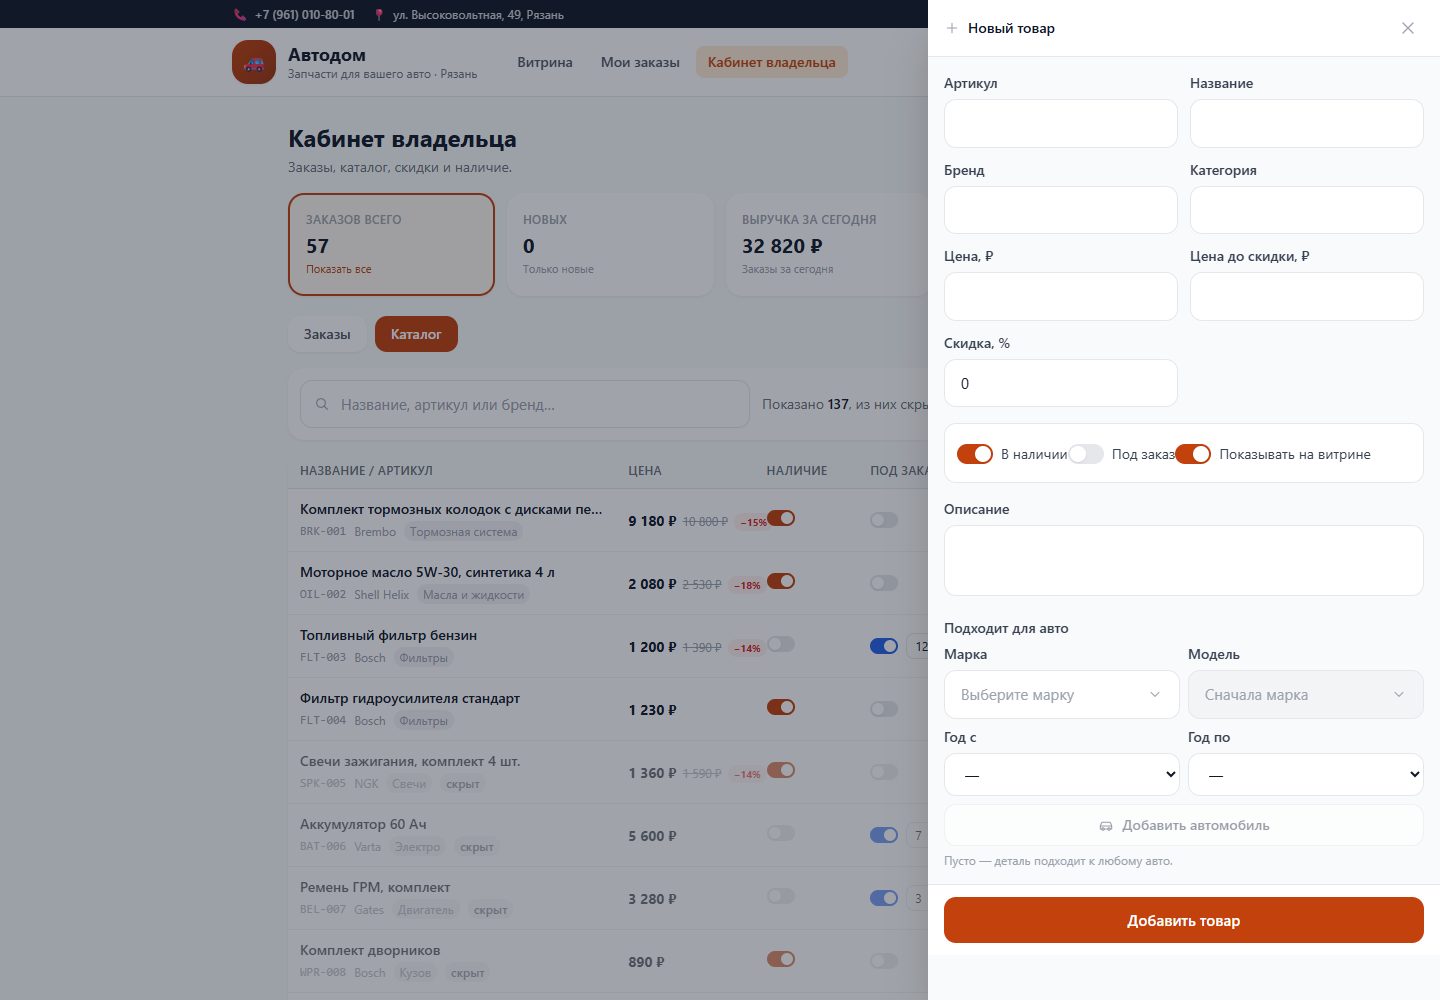
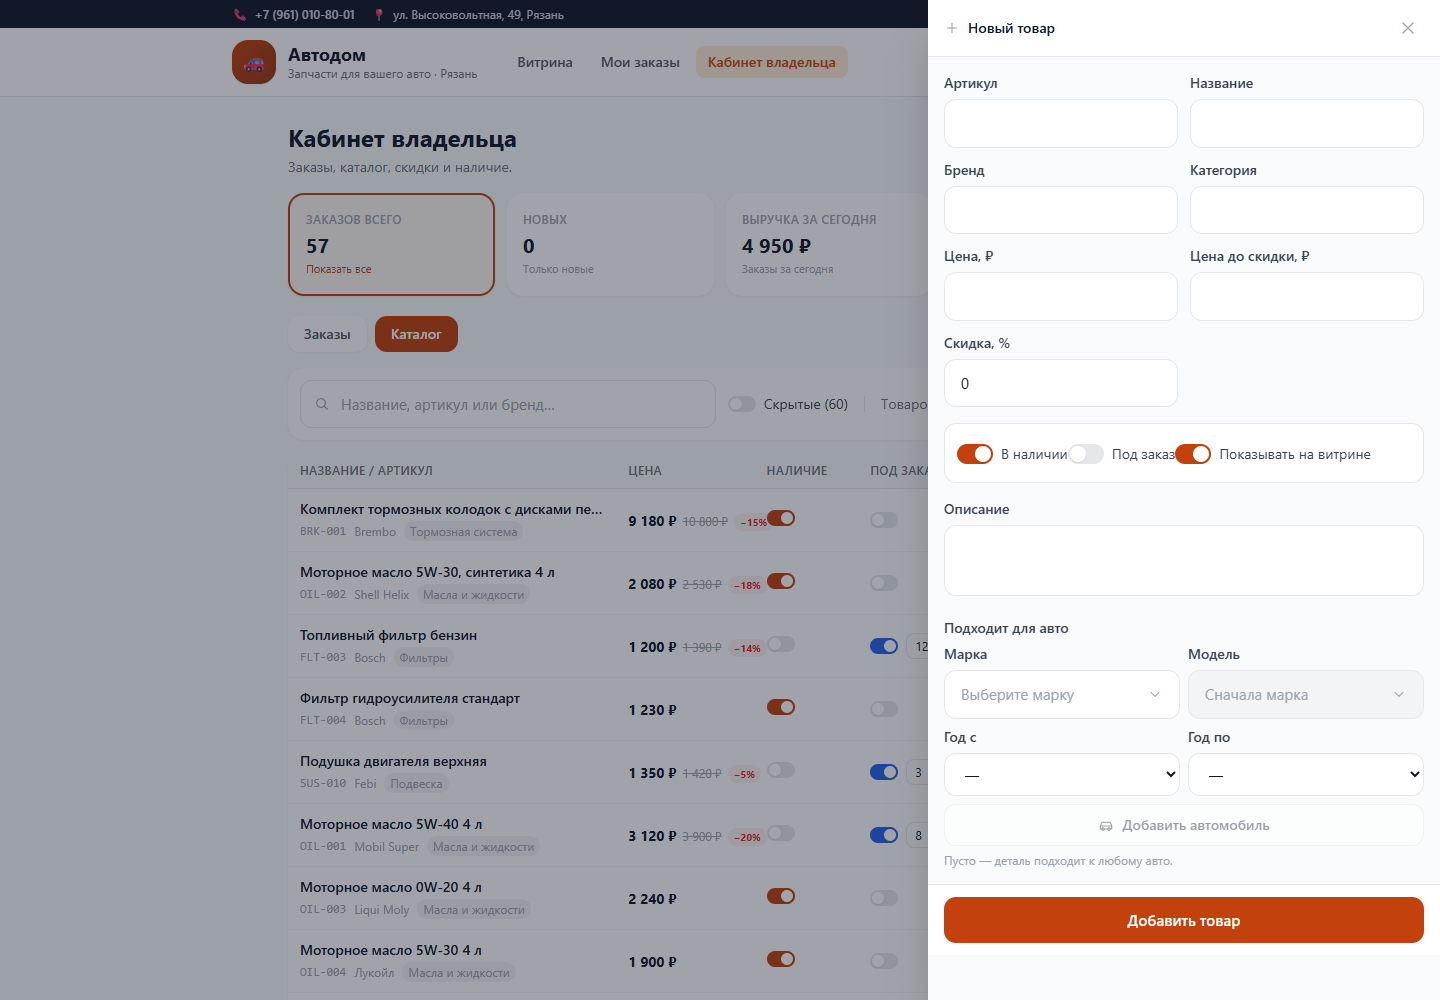
fix: выручка в сводке и переключатель скрытых товаров
Выручка:
- revenue_total и revenue_today считались по всем заказам, включая
  отклонённые и отменённые. Отклонённый заказ денег не приносит,
  поэтому сумма не уменьшалась после смены статуса.
- Теперь выручка — по заказам со статусом, кроме rejected и cancelled.
  Сумма уменьшается сразу после отклонения.

Каталог:
- в таблице по умолчанию только активные товары (77 из 137);
  скрытые добавляют шум в рабочий список
- тумблер «Скрытые (N)» открывает полный список, выбор запоминается
  в localStorage (autodom.admin.showHidden)

Тесты: админка 77/77 (добавлены проверки выручки и переключателя),
каталог 59/59, backend 98/98

diff --git a/frontend/src/pages/AdminPage.jsx b/frontend/src/pages/AdminPage.jsx
@@ -108,6 +108,10 @@ export default function AdminPage() {
   const [sort, setSort] = useState('newest')
   // Поиск по каталогу — владелец ищет деталь по артикулу или названию.
   const [productQuery, setProductQuery] = useState('')
+  // Показывать ли скрытые товары. По умолчанию — нет.
+  const [showHidden, setShowHidden] = useState(
+    () => localStorage.getItem('autodom.admin.showHidden') === '1',
+  )
   const [expanded, setExpanded] = useState(false)
   const [customRange, setCustomRange] = useState({ dateFrom: '', dateTo: '' })
 
@@ -255,6 +259,12 @@ export default function AdminPage() {
       `${product.sku}: срок поставки ${days} дн.`,
     )
 
+  // Показ скрытых товаров запоминаем: владелец часто работает именно с ними.
+  const toggleShowHidden = (value) => {
+    setShowHidden(value)
+    localStorage.setItem('autodom.admin.showHidden', value ? '1' : '0')
+  }
+
   const toggleActive = async (product) => {
     setBusy(true)
     try {
@@ -268,17 +278,20 @@ export default function AdminPage() {
   }
 
   // Поиск по каталогу: название, артикул, бренд или категория.
+  // Скрытые товары показываем только по явному запросу — иначе в рабочем
+  // списке больше половины строк, а это не то, с чем работают ежедневно.
   const filteredProducts = useMemo(() => {
     const needle = productQuery.trim().toLowerCase()
-    if (!needle) return products
-    return products.filter((product) =>
-      [product.name, product.sku, product.brand, product.category]
+    return products.filter((product) => {
+      if (!showHidden && !product.is_active) return false
+      if (!needle) return true
+      return [product.name, product.sku, product.brand, product.category]
         .filter(Boolean)
-        .some((value) => value.toLowerCase().includes(needle)),
-    )
-  }, [products, productQuery])
+        .some((value) => value.toLowerCase().includes(needle))
+    })
+  }, [products, productQuery, showHidden])
 
-  // Скрытых товаров в списке — владельцу важно видеть, что они не в продаже.
+  // Сколько скрытых товаров есть в каталоге — показываем на переключателе.
   const hiddenCount = useMemo(
     () => products.filter((product) => !product.is_active).length,
     [products],
@@ -599,20 +612,24 @@ export default function AdminPage() {
                 onChange={(event) => setProductQuery(event.target.value)}
               />
             </div>
-            <div className="flex items-center gap-2">
+            <div className="flex flex-wrap items-center gap-x-4 gap-y-2">
+              {hiddenCount > 0 ? (
+                <>
+                  <Switch
+                    size="sm"
+                    testId="admin-show-hidden"
+                    label={`Скрытые (${hiddenCount})`}
+                    checked={showHidden}
+                    onChange={toggleShowHidden}
+                  />
+                  <span aria-hidden="true" className="h-4 w-px bg-gray-200" />
+                </>
+              ) : null}
               <p className="text-sm text-gray-500">
-                {hiddenCount > 0 ? (
-                  <>
-                    Показано{' '}
-                    <span className="font-semibold text-gray-900">{filteredProducts.length}</span>
-                    , из них скрыто {hiddenCount}
-                  </>
-                ) : (
-                  <>
-                    Товаров:{' '}
-                    <span className="font-semibold text-gray-900">{filteredProducts.length}</span>
-                  </>
-                )}
+                Товаров:{' '}
+                <span className="font-semibold text-gray-900">
+                  {filteredProducts.length}
+                </span>
               </p>
               <button
                 type="button"

diff --git a/backend/scripts/check_admin.py b/backend/scripts/check_admin.py
@@ -267,6 +267,82 @@ const statusAfter = await page.evaluate(async (num) => {{
 }}, targetOrder);
 check('статус изменился на сервере', statusAfter === 'accepted', true);
 
+// Выручка за сегодня должна уменьшаться, когда заказ отклоняют:
+// отклонённый заказ денег не приносит.
+const revenueBefore = await page.evaluate(async () => {{
+  const token = localStorage.getItem('autodom.token');
+  const resp = await fetch('/api/admin/stats', {{
+    headers: {{ Authorization: 'Bearer ' + token }},
+  }});
+  const data = await resp.json();
+  return {{ today: Number(data.totals.revenue_today),
+           total: Number(data.totals.revenue_total) }};
+}});
+
+const orderToReject = await page.evaluate(async () => {{
+  const token = localStorage.getItem('autodom.token');
+  const resp = await fetch('/api/admin/orders?order_status=accepted&limit=1', {{
+    headers: {{ Authorization: 'Bearer ' + token }},
+  }});
+  const list = await resp.json();
+  if (!list.length) return null;
+  return {{ id: list[0].id, number: list[0].order_number, total: Number(list[0].total) }};
+}});
+
+if (orderToReject) {{
+  await page.evaluate(async (info) => {{
+    const token = localStorage.getItem('autodom.token');
+    await fetch('/api/admin/orders/' + info.id, {{
+      method: 'PATCH',
+      headers: {{ 'Content-Type': 'application/json',
+                 Authorization: 'Bearer ' + token }},
+      body: JSON.stringify({{ status: 'rejected' }}),
+    }});
+  }}, orderToReject);
+  await wait(1200);
+
+  const revenueAfter = await page.evaluate(async () => {{
+    const token = localStorage.getItem('autodom.token');
+    const resp = await fetch('/api/admin/stats', {{
+      headers: {{ Authorization: 'Bearer ' + token }},
+    }});
+    const data = await resp.json();
+    return {{ today: Number(data.totals.revenue_today),
+             total: Number(data.totals.revenue_total) }};
+  }});
+
+  check('отклонение уменьшает выручку за сегодня',
+    Math.abs((revenueBefore.today - revenueAfter.today) - orderToReject.total) < 0.01, true);
+  check('отклонение уменьшает общую выручку',
+    Math.abs((revenueBefore.total - revenueAfter.total) - orderToReject.total) < 0.01, true);
+
+  // Возвращаем заказ в исходный статус.
+  await page.evaluate(async (info) => {{
+    const token = localStorage.getItem('autodom.token');
+    await fetch('/api/admin/orders/' + info.id, {{
+      method: 'PATCH',
+      headers: {{ 'Content-Type': 'application/json',
+                 Authorization: 'Bearer ' + token }},
+      body: JSON.stringify({{ status: 'accepted' }}),
+    }});
+  }}, orderToReject);
+  await wait(1200);
+
+  const revenueRestored = await page.evaluate(async () => {{
+    const token = localStorage.getItem('autodom.token');
+    const resp = await fetch('/api/admin/stats', {{
+      headers: {{ Authorization: 'Bearer ' + token }},
+    }});
+    const data = await resp.json();
+    return {{ today: Number(data.totals.revenue_today),
+             total: Number(data.totals.revenue_total) }};
+  }});
+  check('возврат статуса восстанавливает выручку',
+    Math.abs(revenueRestored.today - revenueBefore.today) < 0.01, true);
+}} else {{
+  check('нашёлся заказ для проверки выручки', false, true);
+}}
+
 // Возвращаем подготовленный заказ в исходный статус: тест не должен
 // расходовать заказы, иначе со временем их не останется.
 const restored = await page.evaluate(async (info) => {{
@@ -382,6 +458,32 @@ await firstRow.locator(`[data-testid="product-onorder-${{sku}}"]`).dispatchEvent
 await wait(2500);
 await firstRow.locator(`[data-testid="product-stock-${{sku}}"]`).dispatchEvent('click');
 await wait(2500);
+
+// Переключатель «Скрытые» — по умолчанию выключен, скрытые товары не видны.
+// Сбрасываем флаг: тест не должен зависеть от предыдущих прогонов.
+await page.evaluate(() => localStorage.setItem('autodom.admin.showHidden', '0'));
+await page.reload({{ waitUntil: 'domcontentloaded' }});
+await page.locator('[data-testid="admin-tab-products"]').click();
+await wait(3000);
+const hiddenSwitch = page.locator('[data-testid="admin-show-hidden"]');
+check('переключатель «Скрытые» есть', await hiddenSwitch.count(), 1);
+check('по умолчанию скрытые не показываются',
+  await page.locator('[data-testid="admin-products-table"] tbody tr')
+    .evaluateAll((els) => els.every((e) => !e.className.includes('opacity-60'))), true);
+const activeOnly = await page.locator('[data-testid="admin-products-table"] tbody tr').count();
+check('в списке только активные товары', activeOnly > 0 && activeOnly < 137, true);
+
+await hiddenSwitch.dispatchEvent('click');
+await wait(2000);
+const withHidden = await page.locator('[data-testid="admin-products-table"] tbody tr').count();
+check('включение показывает скрытые', withHidden > activeOnly, true);
+check('состояние сохраняется в localStorage',
+  await page.evaluate(() => localStorage.getItem('autodom.admin.showHidden')), '1');
+
+await hiddenSwitch.dispatchEvent('click');
+await wait(2000);
+check('выключение возвращает активные',
+  await page.locator('[data-testid="admin-products-table"] tbody tr').count(), activeOnly);
 
 // Drawer
 await page.locator('[data-testid="admin-add-product"]').click();

diff --git a/backend/main.py b/backend/main.py
@@ -1224,9 +1224,14 @@ async def admin_stats(user: dict = Depends(auth.current_owner)) -> dict[str, obj
             (SELECT count(*) FROM orders WHERE status = 'new') AS orders_new,
             (SELECT count(*) FROM orders WHERE created_at::date = current_date)
                 AS orders_today,
-            (SELECT COALESCE(sum(total), 0) FROM orders) AS revenue_total,
-            (SELECT COALESCE(sum(total), 0) FROM orders WHERE created_at::date = current_date)
-                AS revenue_today,
+            -- Выручка — по заказам, которые не отклонены и не отменены.
+            -- Отклонённый заказ денег не приносит, поэтому сумма должна
+            -- уменьшаться сразу после смены статуса.
+            (SELECT COALESCE(sum(total), 0) FROM orders
+                WHERE status NOT IN ('rejected', 'cancelled')) AS revenue_total,
+            (SELECT COALESCE(sum(total), 0) FROM orders
+                WHERE created_at::date = current_date
+                    AND status NOT IN ('rejected', 'cancelled')) AS revenue_today,
             (SELECT count(*) FROM products WHERE is_active) AS products_active,
             (SELECT count(*) FROM products WHERE NOT is_active) AS products_hidden,
             (SELECT count(*) FROM products WHERE in_stock AND is_active)

diff --git a/README.md b/README.md
@@ -95,6 +95,7 @@ inline-кнопками **«Принял / Перезвонил / Отказ»**
 | Функция | Детали |
 |---|---|
 | Кликабельная сводка | «Заказов всего» снимает фильтры, «Новых» показывает только новые, «Выручка за сегодня» включает период, «Товаров» открывает каталог. Активная метрика подсвечена |
+| Выручка | считается по заказам, которые не отклонены и не отменены. Отклонение заказа сразу уменьшает сумму |
 | Поиск | широкая строка над списком: номер заказа, имя клиента, телефон (debounce 350 мс) |
 | Карточка заказа | телефон — ссылка `tel:`, состав заказа виден сразу («Масляный фильтр (1 шт), Колодки (1 компл) и ещё 2…»), история статусов — подробнее |
 | Статусы | одна главная кнопка по текущему статусу (Принять в работу → В работу → Готов к выдаче → Завершить), «Отклонить» и меню `[⋮]` с остальными статусами |
@@ -106,6 +107,7 @@ inline-кнопками **«Принял / Перезвонил / Отказ»**
 |---|---|
 | Таблица | Название/артикул · Цена (старая зачёркнута, бейдж `-15%`) · Наличие · Под заказ + срок · Действия |
 | Мгновенное сохранение | переключение тумблера сразу шлёт `PATCH`; UI обновляется оптимистично, при ошибке откатывается |
+| Скрытые товары | по умолчанию показаны только активные (77 из 137). Тумблер «Скрытые (N)» открывает полный список; выбор запоминается в `localStorage` |
 | Форма товара | выезжающая панель (Drawer) справа, а не форма на весь экран |
 | «Подходит для авто» | мульти-селект: марка → модель → диапазон лет, выбранные авто — бейджи с крестиком |
 | Мобильные | таблица превращается в компактные карточки, горизонтального переполнения нет |

diff --git a/РУКОВОДСТВО.md b/РУКОВОДСТВО.md
@@ -346,8 +346,20 @@ curl http://127.0.0.1:8000/api/health
 
 ### Сводка
 
-Наверху четыре плитки: заказов всего, новых, выручка за сегодня, товаров в
-каталоге.
+Наверху четыре **кликабельные** плитки — это быстрые фильтры, а не просто числа:
+
+| Плитка | Что делает |
+|---|---|
+| Заказов всего | снимает все фильтры, показывает все заказы |
+| Новых | оставляет только новые заказы |
+| Выручка за сегодня | включает период «сегодня» |
+| Товаров в каталоге | открывает вкладку «Каталог» |
+
+Активная плитка подсвечивается оранжевой рамкой.
+
+**Выручка** считается по заказам, которые не отклонены и не отменены. Когда вы
+отклоняете заказ, сумма уменьшается сразу — деньги от отклонённого заказа не
+в выручке.
 
 ### Заказы
 
@@ -399,6 +411,10 @@ curl http://127.0.0.1:8000/api/health
 кнопка с карандашом в строке товара). `Esc` закрывает панель.
 
 Строки таблицы:
+
+По умолчанию в таблице только активные товары. Если нужно поработать со
+скрытыми — включите тумблер **«Скрытые (N)»** рядом со счётчиком; выбор
+запоминается.
 
 | Столбец | Что в нём |
 |---|---|
